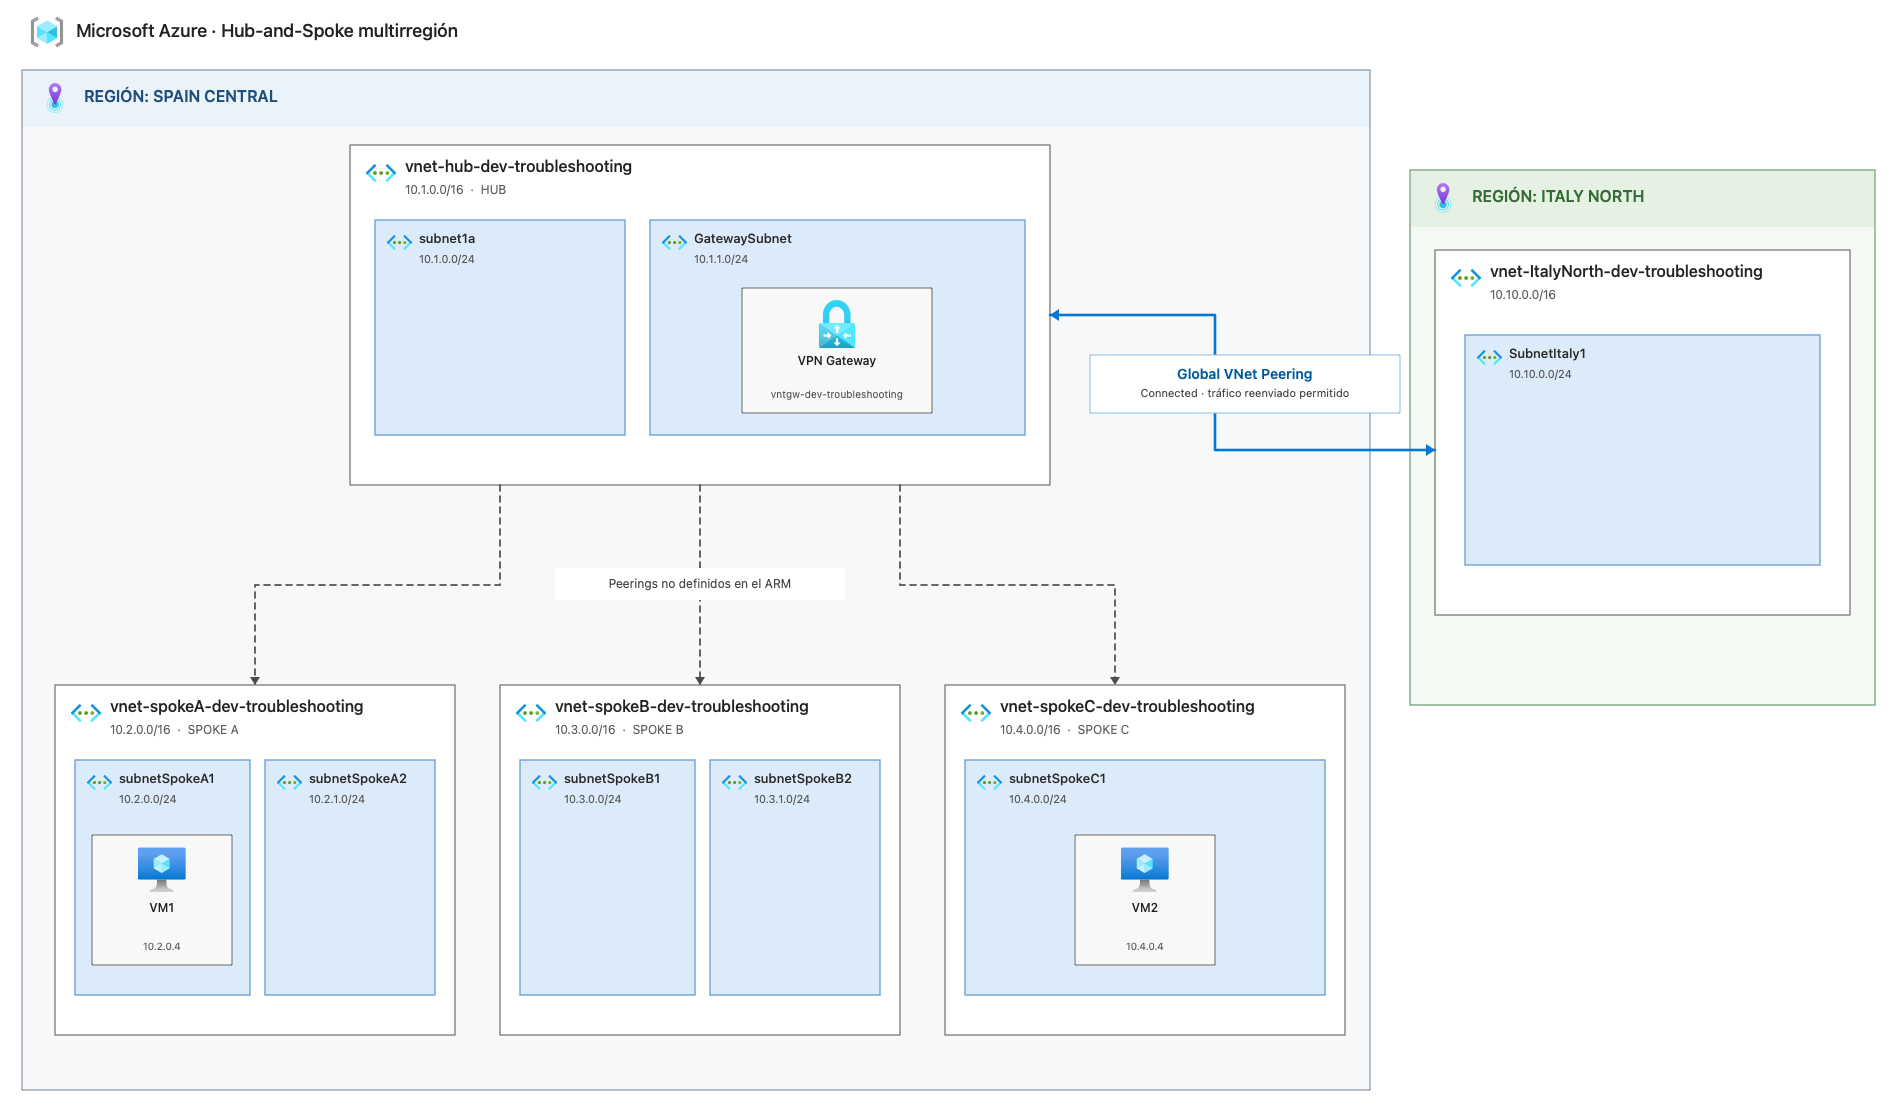
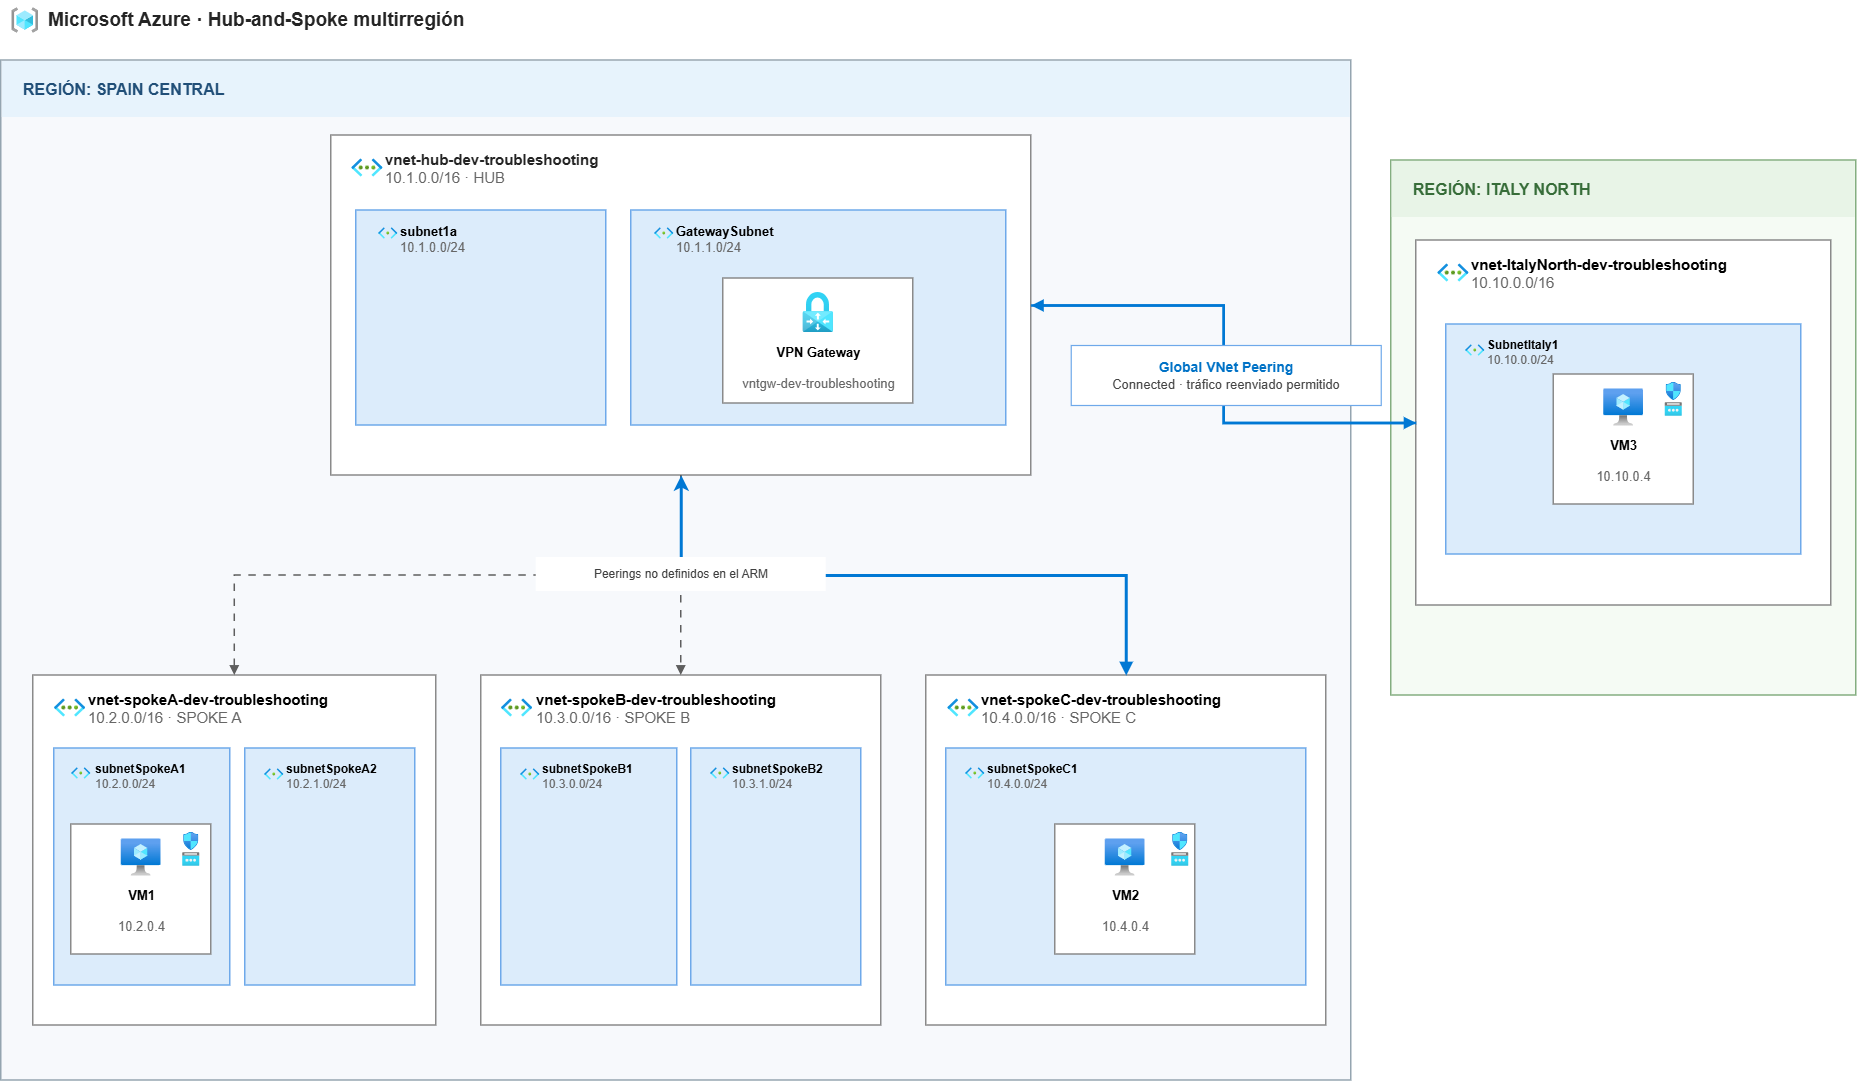
docs: 3/3 troubleshooting scenarios are done

diff --git a/networking/01-hub-spoke-missing-peerings/README.md b/networking/01-hub-spoke-missing-peerings/README.md
@@ -10,27 +10,50 @@ The environment contains:
 - Three spoke VNets in Spain Central.
 - One remote VNet in Italy North.
 - Global VNet peering between the Spain hub and Italy North.
-- One Windows VM in spoke A and one Windows VM in spoke C.
-- One NSG and one public IP for each VM.
+- Network peering between hub and spokeC.
+- One Windows VM in spoke A, one Windows VM in spoke C, one Windows VM in Italy North VM.
+- One NSG (Allow 3389 inbound) and one public IP for each VM.
 - One VPN Gateway in the hub.
 
-The peerings between the hub and the three local spokes are intentionally missing. This is the initial fault of the lab.
+The peerings between: the hub and the two local spokes, and between the spokes are intentionally missing. This is the initial fault of the lab.
 
 ![Azure architecture](../../docs/01-hub-spoke-missing-peerings.png)
 
 ## Troubleshooting scenarios
-- VM1 cannot communicate with VM2 using their private IP addresses.
-- The local spoke VNets cannot communicate with the hub VNet.
-- Restoring the hub-to-spoke peerings does not automatically provide spoke-to-spoke connectivity.
-- Check the global connection between Italy and Spain Hub vNets 
+1. VM1 cannot communicate with VM2 using their private IP addresses.
+2. The local spoke VNets cannot communicate with the hub VNet.
+3. Restoring the hub-to-spoke peerings does not automatically provide spoke-to-spoke connectivity.
 
 ## Troubleshooting notes
 
 ### Scenario 1: VM1 cannot communicate with VM2
-- Symptoms:
-- Troubleshooting tools used:
-- Checks performed:
-- Root cause:
-- Changes applied:
-- Validation:
+- VM1 (10.2.0.4) cannot reach VM2 (10.4.0.4): all 316 connectivity probes failed.
+- Inbound TCP/3389 on VM2 is allowed, and the RDP port is reachable.
+- Outbound traffic from VM1 is denied because VM1 is initiating a new connection.
+- NSG statefulness only permits response traffic for an already established connection.
+- Next Hop returned None, confirming that no route exists between both VNets.
+- Tools used: IP Flow Verify, NSG Diagnostic, Next Hop and Connection Troubleshoot.
+- Root cause: missing VNet peering.
+
+### Scenario 2: Local Spoke vNet cannot communicate with local Hub vNet
+- VM1 and VM2 have no valid route to the hub VNet (10.1.0.0/16).
+- Next Hop returned None using the system route from both VMs.
+- Effective Routes contain no route to the hub through VirtualNetworkPeering.
+- Network Topology shows no peering connections between the local spokes and the hub.
+- End-to-end connectivity cannot be tested because the hub has no VM or other test endpoint.
+- Tools used: Next Hop, Effective Routes and Network Topology.
+- Root cause: missing hub-to-spoke VNet peerings.
+
+
+### Scenario 3: Spoke-to-spoke connectivity through the hub
+- Italy North and Spoke C have bidirectional peerings with the hub in Connected state.
+- VM2 and VM3 have active VirtualNetworkPeering routes to the hub network.
+- VM2 and VM3 cannot communicate using their private IP addresses.
+- Connection Troubleshoot returned Unreachable, with all probes failing.
+- Next Hop returned None for traffic between both spoke networks.
+- Effective Routes contain no route between 10.4.0.0/16 and 10.10.0.0/16.
+- allow_forwarded_traffic does not make the hub forward traffic automatically.
+- Tools used: Connection Troubleshoot, Next Hop, Effective Routes and Network Topology.
+- Root cause: VNet peering is not transitive. Direct peering or a routing appliance with UDRs is required.
+
 
